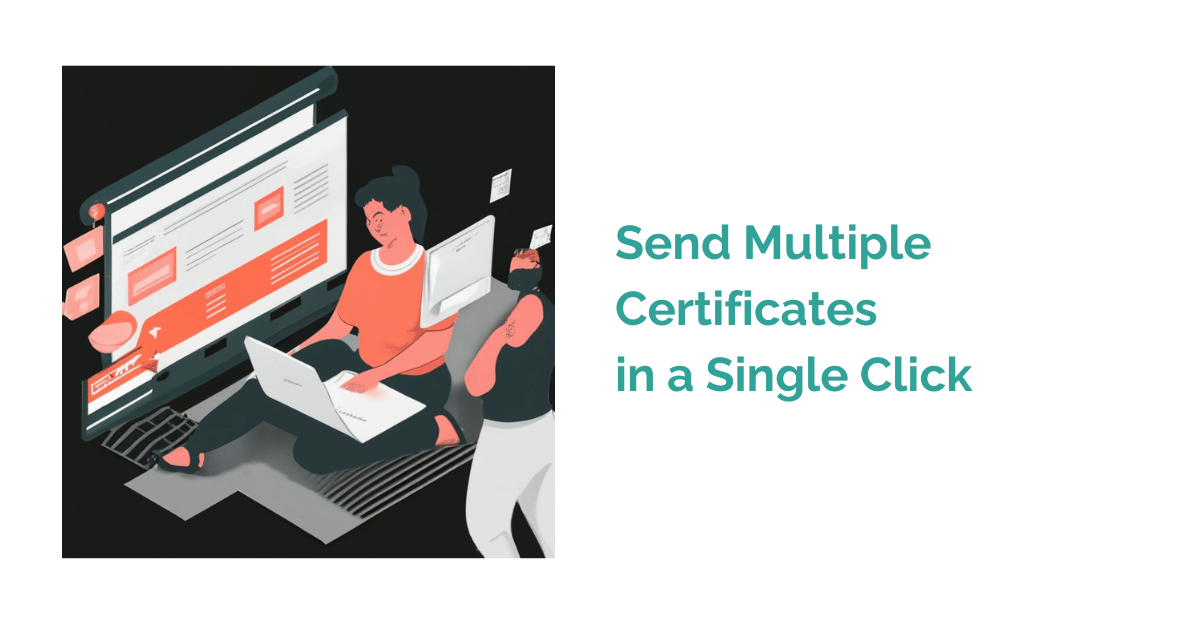
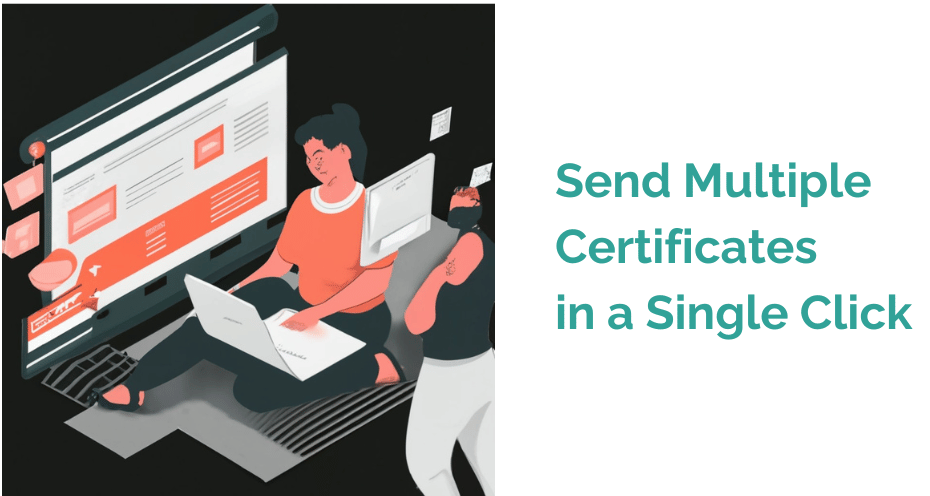
blog update

diff --git a/_includes/V4NewLook/blogs/singleBlogPostV2.html b/_includes/V4NewLook/blogs/singleBlogPostV2.html
@@ -89,7 +89,7 @@
                             <!-- HERO IMAGE -->
                             <div class="col-md-6">
                                 <div class=" text-center" style="padding-bottom: 20px;">
-                                    <img src="{{page.imageLink}}" alt="{{page.title}}" style="max-height: 275px; ;">
+                                    <img src="{{page.imageLink}}" alt="{{page.title}}" style="max-height: 310px; ;">
                                 </div>
                             </div>
 

diff --git a/_blog/send-bulk-certificates.md b/_blog/send-bulk-certificates.md
@@ -1,8 +1,8 @@
 ---
 layout: V4LayoutSingleBlogPost
-title:  How to Send Multiple Certificates in a Single Click in 2023
+title:  How to Send Multiple Certificates via Email in a Single Click
 
-description: Explore step by step process allowing you to create and send multiple certificates in a single click.
+description: Learn how to send multiple certificates via email in a single click with this easy-to-follow, step-by-step guide and simplify your certificate distribution process
 
 abstract: 
 
@@ -12,55 +12,113 @@ imageLink: /img/blog/Send Multiple Certificates in a Single Click with CertifyMe
 featured: true
 ---
 
-# Send Multiple Certificates in a Single Click with CertifyMe Certificate Generator
-Sending multiple certificates with just one click can save you a significant amount of time and effort. CertifyMe certificate generator offers an efficient solution for this task. 
+Sending multiple certificates via email can streamline administrative tasks and ensure recipients receive their credentials promptly. This guide highlights the quickest way to manage bulk certificate distribution, providing you with a step-by-step process to handle this task efficiently and effectively.  
+<br>
+<br>
 
-### Step 1: Log In to CertifyMe Certificate Generator
+## Step 1: Choosing a Digital Credential Management Platform
 
-<img class="img-fluid r-16" src="/img/blog/Send Multiple Certificates in a Single Click with CertifyMe Certificate Generator/1.png" alt="image">
+Selecting the right digital credential management platform is crucial for efficiently sending multiple certificates via email. A good platform should offer ease of use, comprehensive customization options, and secure distribution to ensure the integrity of the certificates. 
 
-Start by <a href="https://credential.certifyme.online/auth/login">logging into your CertifyMe account or create one</a> if you haven't already. Make sure you have the necessary permissions to design and send certificates.
+<a href="https://www.certifyme.online/">CertifyMe</a> excels in these areas with its intuitive interface, making it easy to manage the entire certificate issuance process. The platform allows you to customize certificates to match your organization's branding and provides secure, tamper-proof certificates. 
 
-### Step 2: Create Template and Design
+Its ability to handle bulk issuance efficiently makes it an ideal choice for organizations needing to send large numbers of certificates.
+<br>
+<br>
 
-<img class="img-fluid r-16" src="/img/blog/Send Multiple Certificates in a Single Click with CertifyMe Certificate Generator/2.png" alt="image">
+## Step 2: Signing Up and Logging In to Your Account
 
-After logging in, you will typically find an option to create a new certificate template. Click on it to begin designing your certificate.
+<img class="img-fluid r-16" src="/img/blog/Send Multiple Certificates in a Single Click with CertifyMe Certificate Generator/1.png" alt="CertifyMe login">
 
-1. Choose a template style that suits your needs or create a custom design from scratch.
+To get started with CertifyMe, you need to sign up for an account. The registration process is straightforward:
+1. Visit the CertifyMe website and click on the <a href="https://credential.certifyme.online/auth/preregister/nav@certifyme.online">'Try For Free'</a> button on the top right corner.
 
-1. Customize the template by adding your organization's logo, colors, and any other design elements you prefer.
+1. Fill in the required details, including your name, email address, and organization information.
 
-1. Ensure that there is enough space for variable fields (attributes) that you want to include on the certificates.
+1. Create a secure password and agree to the terms and conditions.
+
+1. Verify your email address to complete the registration process.
+
+Once registered, log in to your CertifyMe account using your email and password. This account will be your central hub for managing certificate designs, recipients, and distributions.
+<br>
+<br>
+
+## Step 3: Design and Upload Your Certificate Template
+
+<img class="img-fluid r-16" src="/img/blog/Send Multiple Certificates in a Single Click with CertifyMe Certificate Generator/2.png" alt="CertifyMe Design Template">
+
+After logging in, the next step is to design your certificate template. In CertifyMe, navigate to the 'Design Template' section via the navigation bar on the left. Next, click on "Edit your credential template," which will take you to the credential template editor. Here, you have two options:
+
+1. <b>Upload a Pre-Designed Template:</b> If you already have a certificate design ready, simply upload it to the editor.
+
+1. <b>Create a New Design:</b> Use the integrated Canva tool to design a certificate that meets your needs. Canva offers a range of customization options, including adding your organization's logo, colors, and other design elements.
+
+Ensure your template includes space for variable attributes, such as the recipient's name, course title, and date of completion, to personalize each certificate effectively.
+<br>
+<br>
+
+## Step 4: Add Variable Attributes
+
+<img class="img-fluid r-16" src="/img/blog/Send Multiple Certificates in a Single Click with CertifyMe Certificate Generator/3.png" alt="CertifyMe credential template editor">
+
+Variable attributes are placeholders in the certificate template that can be personalized for each recipient. They allow for the dynamic insertion of information such as names, course titles, and dates, making each certificate unique. To add variable attributes in CertifyMe:
+
+1. In the template design interface, locate the option to add variable fields.
+
+1. Click on the desired area in the template to insert standard fields like the recipient's name, course name, and completion date.
+
+1. You can also add custom variables, such as QR codes or unique number IDs, for additional security or functionality.
+
+1. Use drag-and-drop functionality or precise placement tools to position these fields correctly on the template. 
+
+These features ensure that each certificate is personalized and meets your specific requirements.
+<br>
+<br>
+
+## Step 5: Save Your Template
+
+After designing your certificate and adding the necessary variable attributes, it's important to fill out the program details. These details serve as the metadata for each credential, ensuring accurate and complete information is associated with every certificate issued. Be sure to fill out these fields carefully and thoroughly.
+
+1. Enter all required program details, including the course name, issuing organization, and any other relevant information.
+
+1. Once all details are completed, click on the "Save my Credential Template" button to save your design.
+
+1. Name your template descriptively, making it easy to locate and reuse for future certificate distributions.
+
+This step ensures that your certificates are well-organized and easy to manage within the CertifyMe platform.
+<br>
+<br>
+
+## Step 6: Prepare and Upload a CSV File
 
 
-### Step 3: Add Attributes to the Design
+To efficiently send multiple certificates via email, you'll need to prepare a CSV file containing the necessary recipient information:
 
-<img class="img-fluid r-16" src="/img/blog/Send Multiple Certificates in a Single Click with CertifyMe Certificate Generator/3.png" alt="image">
+1. Create a CSV file where each row represents a different recipient. Include columns for each variable attribute, such as Name, Course Name, and Date of Completion.
+2. In CertifyMe, navigate to the "Award Credentials" page for the specific credential template you want to use.
+3. Click the "Bulk Award" button, which will reveal the "Upload CSV" option along with a <a href="https://credential.certifyme.online/credentialTemplate/generateSampleCSV/17383">sample CSV</a> file you can download for reference.
+4. Upload your completed CSV file, ensuring that each column aligns with the corresponding variable attribute in your certificate template.
+5. Verify the data mapping to confirm that all recipient information is accurate and properly assigned.
 
-Now, it's time to add the variable fields (attributes) to your certificate. These fields can include the recipient's name, course name, date of completion, and any other relevant information. In CertifyMe, there should be an option to add these attributes to the design. Drag and drop or click on the desired location on the certificate template to insert the attribute placeholders.
+This process allows you to efficiently manage and distribute a large number of certificates, ensuring that each recipient receives their personalized certificate.
+<br>
+<br>
 
+## Use CertifyMe's API for Large-Scale Distribution (Optional)
 
-### Step 4: Save Your Certificate Template
+For organizations that need to send a large volume of certificates, CertifyMe offers an API to automate the process:
 
-Once you have designed your certificate and added all the necessary attributes, save the template. Give it a meaningful name for easy reference in the future.
+1. Consult CertifyMe’s API documentation for detailed instructions on integrating the API with your systems.
+1. <a href="https://info.certifyme.online/talk-with-expert">Contact CertifyMe's support team</a> to set up API access and receive assistance with the integration process.
+1. Use the API to automate the certificate issuance process, which is ideal for ongoing or large-scale distributions.
 
-### Step 5: Award Certificates Using CSV
-
-1. To send multiple certificates in a single click, you can use a CSV (Comma-Separated Values) file.
-
-1. Prepare a CSV file containing the recipient's information, with each row representing a different recipient and each column corresponding to the attributes you've added (e.g., Name, Course Name, Date of Completion).
-
-1. In CertifyMe, there should be an option to upload this CSV file.
-
-1. Map the columns in your CSV to the corresponding attributes on your certificate template.
-
-1. Once the mapping is complete, initiate the certificate generation process. CertifyMe will automatically populate the certificate template with the data from your CSV file and generate individual certificates for each recipient.
-
-### Step 6: Award Certificates Using API (Optional)
-
-If you have a larger volume of certificates to send, consider using the API provided by CertifyMe to automate the process.
-Consult CertifyMe's API documentation for detailed instructions on how to use their API to send certificates in bulk.
+This automation is particularly useful for organizations that frequently issue certificates, providing a streamlined and scalable solution.
+<br>
+<br>
 
 ## Conclusion
-Sending multiple certificates in a single click is a breeze with CertifyMe certificate generator. By following these simple steps, you can design and send customized certificates efficiently, whether you choose to use CSV or the API. This feature is particularly useful for organizations that regularly issue certificates for courses, events, or achievements.
+Sending multiple certificates via email is essential in various scenarios, such as issuing course completions, recognizing employee achievements, or validating event participation. Ensuring this process is handled accurately is crucial to prevent errors and maintain the integrity of each certificate. Proper management is key to delivering personalized, secure certificates that reflect your organization’s professionalism.
+<br>
+
+CertifyMe is a robust tool designed to streamline this process effectively. It offers an efficient way to design, personalize, and distribute certificates with minimal hassle. <a href="https://credential.certifyme.online/auth/preregister/nav@certifyme.online">Signing up is free</a>  and straightforward, allowing you to start managing your certificate distribution without any cost. Explore how CertifyMe can enhance your certificate issuance process today.
+
